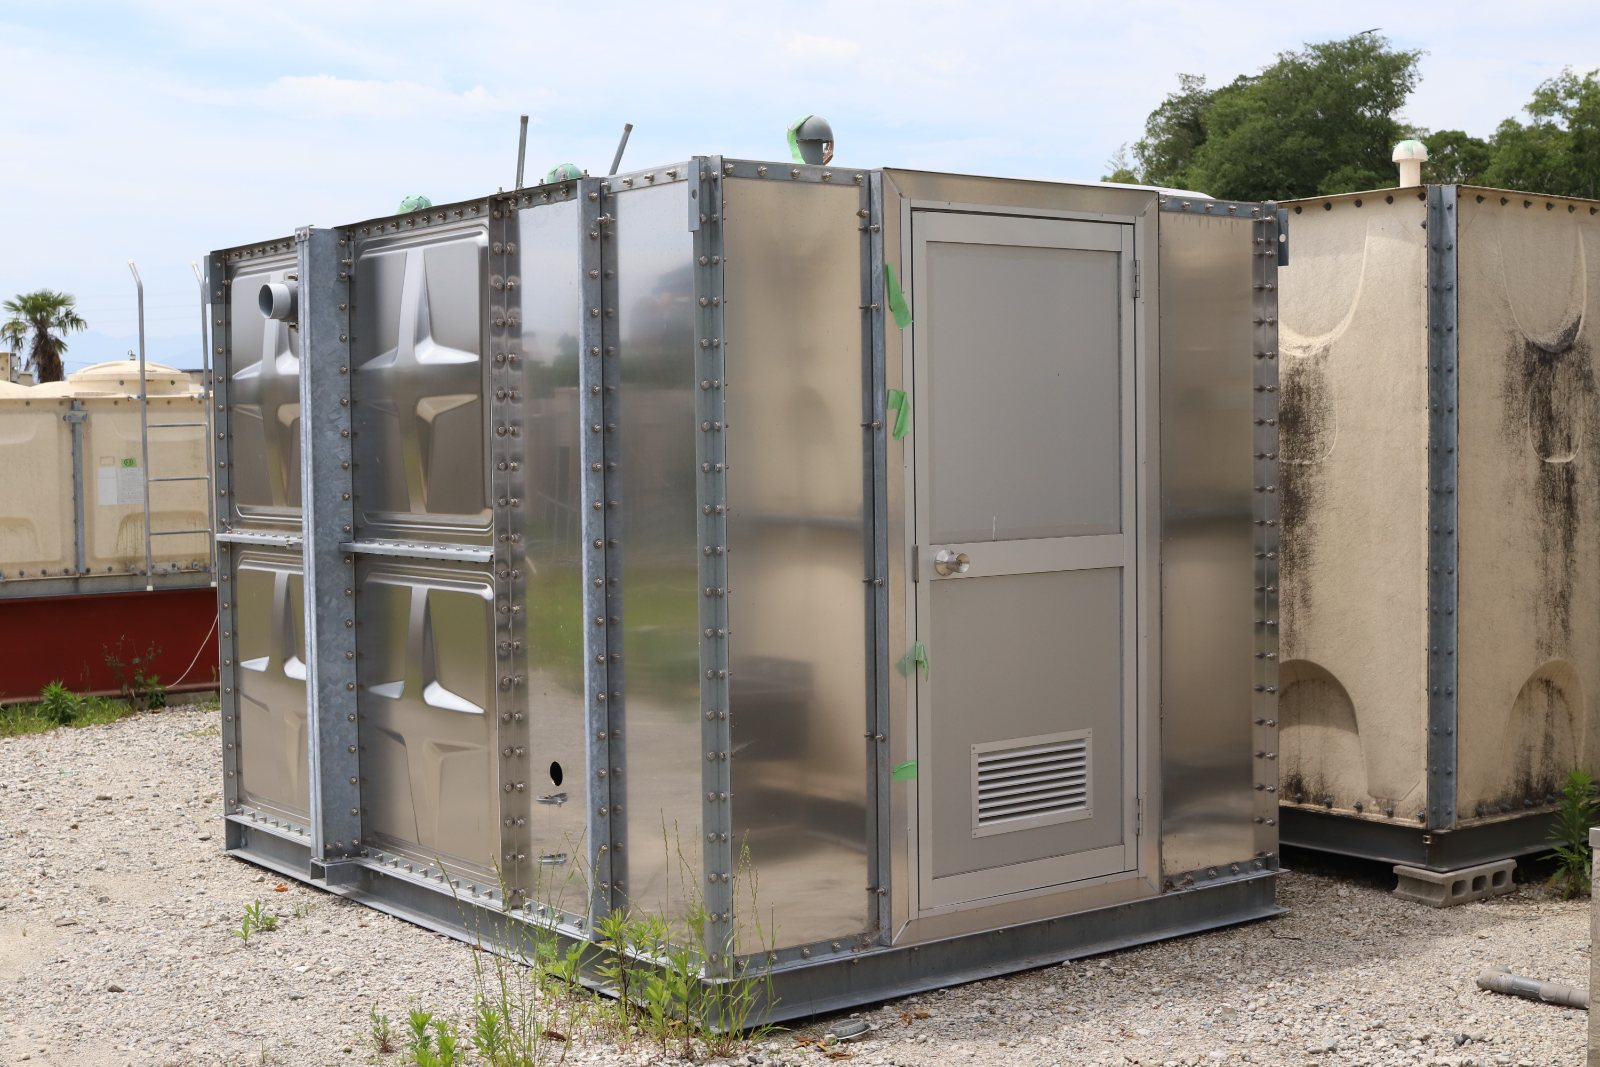
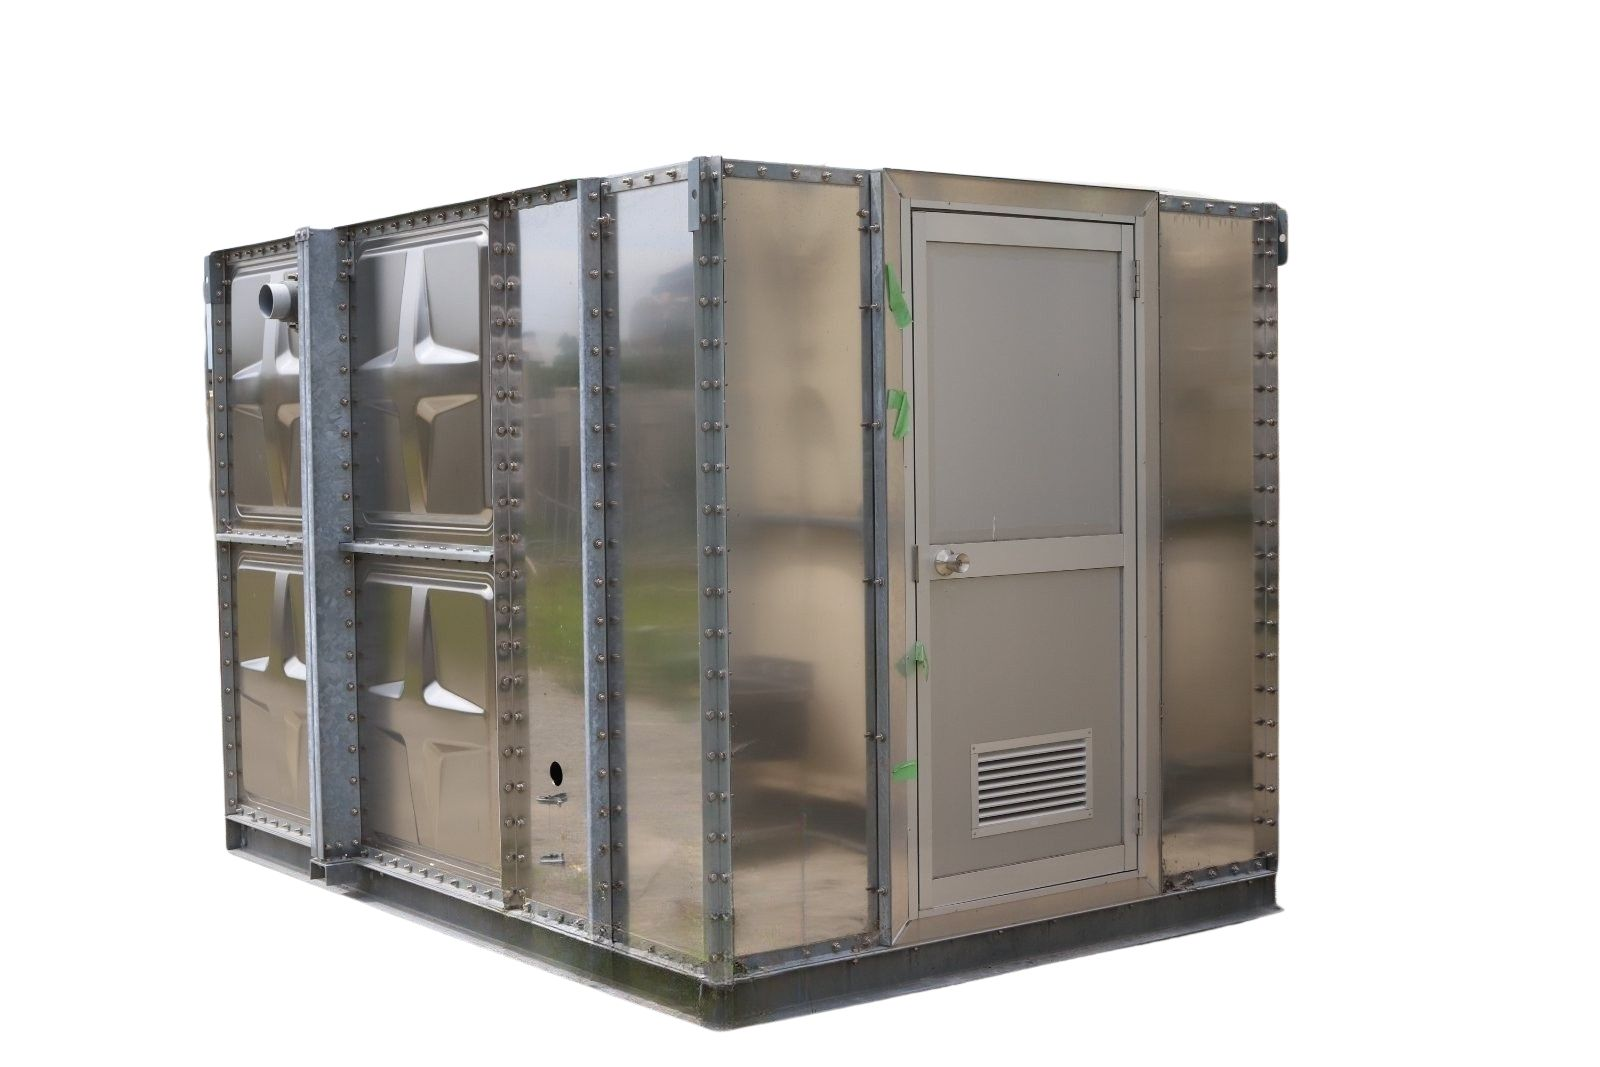
受水槽の写真（img/tank.jpg）を差し替え
- 背景を切り抜いた新しい受水槽・パネルタンクの写真に変更
- 参照箇所に版番号を付与（?v=2026110404）し、古い写真がキャッシュで残らないように

Claude-Session: https://claude.ai/code/session_01FxS9UVFzpkPvgEkuBTFrKL

diff --git a/index.html b/index.html
@@ -260,7 +260,7 @@
         <div class="blob theme-only-b"></div>
         <div class="blob blob-2 theme-only-b"></div>
         <div class="f f1"><img src="img/cubicle.jpg" alt="受変電設備（キュービクル）"></div>
-        <div class="f f2"><img src="img/tank.jpg" alt="受水槽"></div>
+        <div class="f f2"><img src="img/tank.jpg?v=2026110404" alt="受水槽"></div>
         <div class="f f3 theme-only-a"><img src="img/aircon.jpg" alt="空調設備"></div>
       </div>
   </div>
@@ -398,7 +398,7 @@
               <p>可能な物は専用の洗剤で付け置き洗い。不可な物はふき取りを行い、状態を確かめます。</p>
             </div>
             <!-- ▼ 写真は仮（事業案内と共用）。工程ごとの実写真に差し替え ▼ -->
-            <div class="media"><img src="img/tank.jpg" alt="清掃・点検を終えた受水槽"></div>
+            <div class="media"><img src="img/tank.jpg?v=2026110404" alt="清掃・点検を終えた受水槽"></div>
           </article>
           <article class="rl-card" data-i="3">
             <div class="body">
@@ -447,7 +447,7 @@
     </div>
     <div class="v5-railwrap">
       <div class="v5-rail">
-      <a class="equip-card reveal" href="lease.html"><img src="img/tank.jpg" alt="受水槽"><div class="cap"><span class="cat">Water Supply</span><h4>受水槽・パネルタンク</h4></div></a>
+      <a class="equip-card reveal" href="lease.html"><img src="img/tank.jpg?v=2026110404" alt="受水槽"><div class="cap"><span class="cat">Water Supply</span><h4>受水槽・パネルタンク</h4></div></a>
       <a class="equip-card reveal d1" href="lease.html"><img src="img/cubicle.jpg" alt="受変電設備"><div class="cap"><span class="cat">Electric</span><h4>受変電設備・キュービクル</h4></div></a>
       <a class="equip-card reveal d2" href="rental.html"><img src="img/aircon.jpg" alt="空調設備"><div class="cap"><span class="cat">Air Conditioning</span><h4>空調設備（パッケージエアコン）</h4></div></a>
       <a class="equip-card reveal" href="lease.html"><img src="img/johkasou.jpg" alt="浄化槽"><div class="cap"><span class="cat">Drainage</span><h4>浄化槽</h4></div></a>

diff --git a/lease.html b/lease.html
@@ -88,7 +88,7 @@
      ============================================================ -->
 <section class="jg-pin" data-pin-statement>
   <div class="jg-pin-sticky">
-    <div class="jg-pin-bg"><img src="img/tank.jpg" alt="受水槽・パネルタンク"></div>
+    <div class="jg-pin-bg"><img src="img/tank.jpg?v=2026110404" alt="受水槽・パネルタンク"></div>
 
     <div class="jg-pin-copy">
       <div class="wrap jg-grid">
@@ -148,7 +148,7 @@
       <p class="lead">電気設備・給排水設備を中心に、現場に必要な機器を取り揃えています。</p>
     </div>
     <div class="equip-grid">
-      <div class="equip-card reveal"><img src="img/tank.jpg" alt="受水槽"><div class="cap"><span class="cat">Water Supply</span><h4>受水槽・パネルタンク</h4></div></div>
+      <div class="equip-card reveal"><img src="img/tank.jpg?v=2026110404" alt="受水槽"><div class="cap"><span class="cat">Water Supply</span><h4>受水槽・パネルタンク</h4></div></div>
       <div class="equip-card reveal d1"><img src="img/cubicle.jpg" alt="受変電設備"><div class="cap"><span class="cat">Electric</span><h4>受変電設備・キュービクル</h4></div></div>
       <div class="equip-card reveal d2"><img src="img/transformer.jpg" alt="変圧器"><div class="cap"><span class="cat">Electric</span><h4>変圧器（トランス）</h4></div></div>
       <div class="equip-card reveal"><img src="img/johkasou.jpg" alt="浄化槽"><div class="cap"><span class="cat">Drainage</span><h4>浄化槽</h4></div></div>

diff --git a/news-detail.html b/news-detail.html
@@ -101,7 +101,7 @@
     <article class="art-body reveal">
 
       <figure class="art-fig">
-        <img src="img/tank.jpg" alt="釣り会当日の様子">
+        <img src="img/tank.jpg?v=2026110404" alt="釣り会当日の様子">
         <figcaption>当日は快晴。総勢18名で伊島沖へ向かいました。</figcaption>
       </figure>
 
